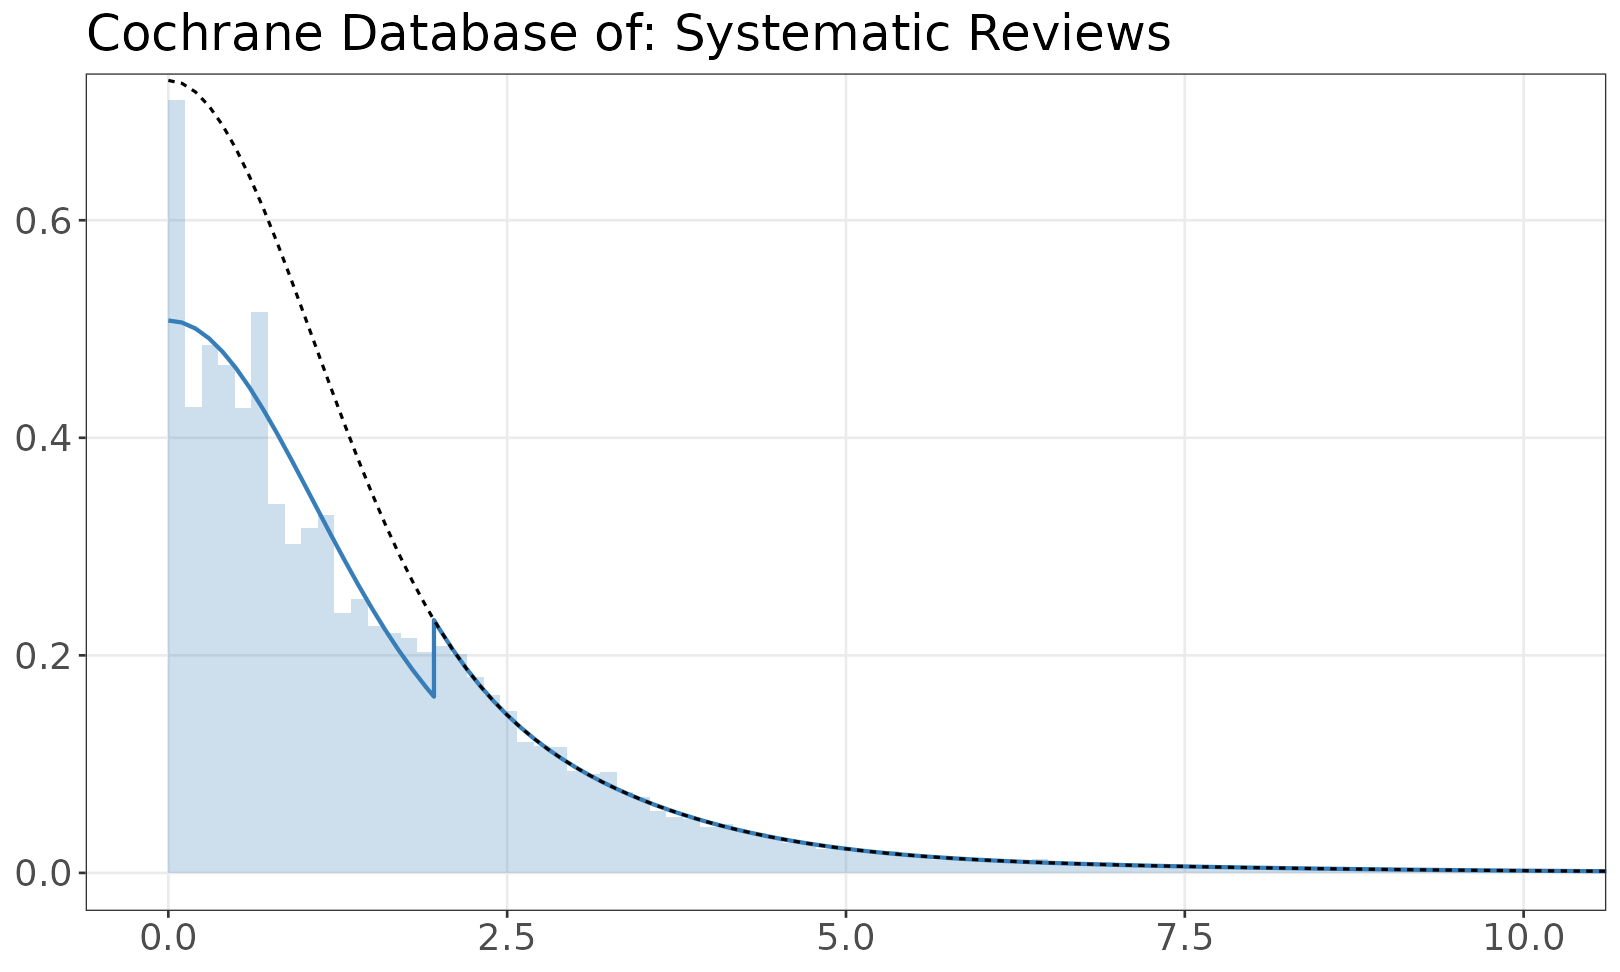
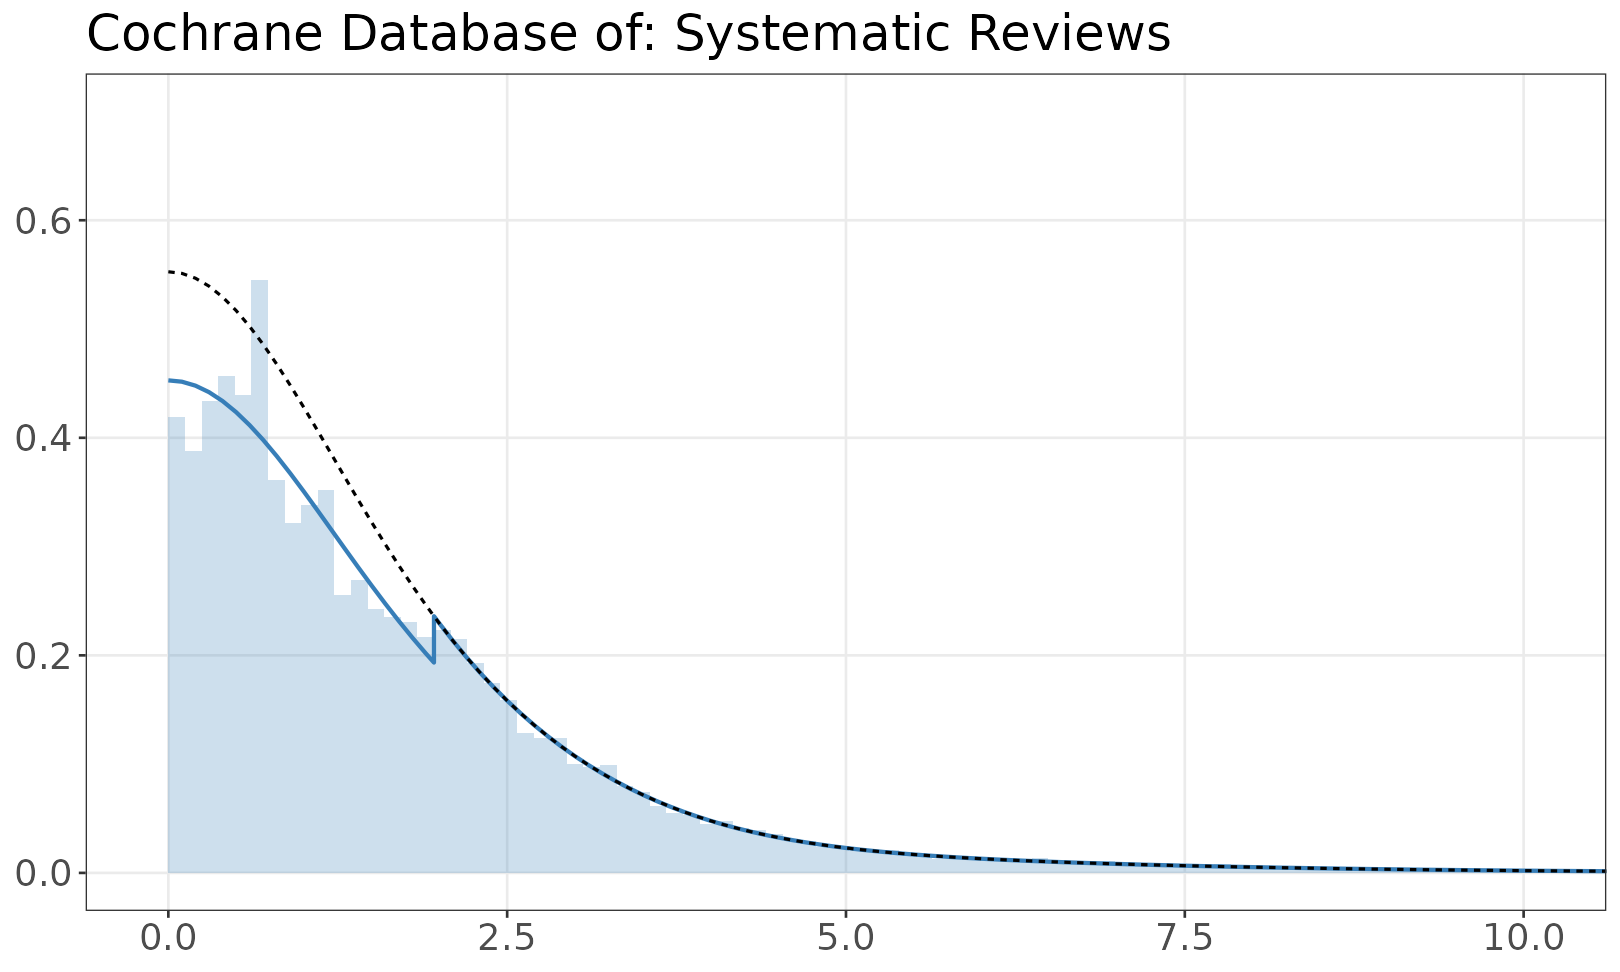
Update Cochrane (drop 00's) and clinicaltrials.gov (new extraction pipeline) results

Changed region(s): [[0.0926, 0.0926, 0.4938, 0.8642], [0.4938, 0.8642, 0.8025, 0.8951], [0.1543, 0.2778, 0.1852, 0.3395]]

diff --git a/paper/optimism.tex b/paper/optimism.tex
@@ -74,6 +74,7 @@
  % \endlocaldefs
 
 \DeclareMathOperator{\SNR}{\mathrm{SNR}}
+\DeclareMathOperator{\PoS}{\mathrm{PoS}}
 \DeclareMathOperator{\normal}{\mathrm{normal}}
 \DeclareMathOperator{\MVN}{\mathrm{MVN}}
 \DeclareMathOperator{\uniform}{\mathrm{uniform}}
@@ -104,7 +105,7 @@
 \usepackage[style=authoryear-comp,indexing=cite]{biblatex}
 \ExecuteBibliographyOptions{sortlocale=general,maxnames=12,maxcitenames=3,parentracker=true,sortcites=false,uniquename=false,dashed=false,hyperref=true}
 \uspunctuation
-\addbibresource{references.bib}
+\addbibresource{../doc/references.bib}
 \renewbibmacro{in:}{}
 
 
@@ -192,7 +193,7 @@ The second group consists of six corpora that can be thought of as representativ
 
 For comparison, we also include a third group which has the studies that were studies that were selected for replication in two notable large scale replication efforts: Open Science Collaboration replications in psychology \parencite{opensciencecollaborationEstimatingReproducibilityPsychological2015a} and SCORE replications in the social and behavioural sciences \parencite{tyner2026investigating}. We will discuss these sets of studies together with the second group because they have very similar properties. 
 
-\input{table1.tex}
+\input{tables/table1.tex}
 
 While we do some data processing of our own, all of data collection and the vast majority of data processing was already done by the creators of the datasets we reference. Most of them already include $z$-values or effect sizes and standard errors, but in some cases we make calculations ourselves (for example, from $p$-values or counts for binary data); calculation details are in Appendix \ref{app:datasets}. 
 
@@ -336,22 +337,22 @@ The right panel of Figure~\ref{fig:pos_gap} displays the probabilities of succes
 
 \begin{figure}
 \centering
-\includegraphics[width=1\textwidth]{fig/mixtures_plot_collection_groups.pdf}
+\includegraphics[width=1\textwidth]{figures/mixtures_plot_collection_groups.pdf}
 \caption{Histograms of absolute $z$-values across 14 non-replication corpora with fitted curves overlaid on top. The solid curves are densities, fitted using mixtures of half-normal distributions and conditioning on publication. Dashed curves are the unconditional ``corrected'' distributions, scaled to match the solid curve in region $|z| > 1.96$. Blue: curated sets; red: representative domain samples.}\label{fig:zmixtures}
 \end{figure}
 
 \begin{figure}
 \centering
-\includegraphics[width=1\textwidth]{fig/mixtures_plot_replication_projects.pdf}
+\includegraphics[width=1\textwidth]{figures/mixtures_plot_replication_projects.pdf}
 \caption{Histograms of absolute $z$-values for the SCORE and OSC original-study and replication-study distributions. Only the unconditional ``corrected'' mixture density is shown. Grey panels show original studies; yellow panels show replication studies.}\label{fig:replication_mixtures}
 \end{figure}
 
 
-\input{table2.tex}
+\input{tables/table2.tex}
 
 \begin{figure}
 \centering
-\includegraphics[width=.9\textwidth]{fig/pos_gap.pdf}
+\includegraphics[width=.9\textwidth]{figures/pos_gap.pdf}
 \vspace{-.2in}
 \caption{Left panel: ``survival curves'' of the probability of significance: $1 - (\mbox{CDF of PoS})$ for each of the 16 corpora. Right panel: conditional probabilities that the observed direction of the effect matches the true direction (top set of curves) and the conditional probability of ``successful'' replication (bottom set). Colors distinguish curated sets, representative domain samples, and replication efforts.}\label{fig:pos_gap}
 \end{figure}
@@ -490,20 +491,20 @@ If $z_\text{repl}$ is the $z$-value of an exact replication study, then the cond
 
 \begin{figure}[h]
 \centering
-\includegraphics[width=16.5cm]{fig/gap_plot_all.pdf}
+\includegraphics[width=16.5cm]{figures/gap_plot_all.pdf}
 \caption{Relationship between absolute $z$-values and the probability that the direction of the observed effect matches the true direction (blue curves) and the probability of ``successful replication'' (red curves). The vertical line is $\overline{\mathrm{PoS}}$. }
 \label{fig:gap_plot_all}
 \end{figure}
 
 \begin{figure}[h]
     \centering
-    \includegraphics[width=1\linewidth]{fig/mixtures_plot_subsets.pdf}
+    \includegraphics[width=1\linewidth]{figures/mixtures_plot_subsets.pdf}
     \vspace{-.2in}
     \caption{Subsets of interventional treatment studies from {\tt clinicaltrials.gov}, broken down by phase (top row) and from Cochrane database (bottom row), grouped by specialty (out of 19 included in the dataset): two with lowest $\overline{\mathrm{PoS}}$ on the left and two with the highest on the right. The peaks in the histograms at $|z| = 1.96, 2.58, 3.29$ are due to trials reporting (two-sided) $p<0.05, p<0.01, p<0.001$.}
     \label{fig:subsets}
 \end{figure}
 
-\input{table3.tex}
+\input{tables/table3.tex}
 
 \clearpage
 \section{Datasets included in BEAR}\label{app:datasets}

diff --git a/paper/tables/table3.tex b/paper/tables/table3.tex
@@ -21,25 +21,25 @@ Askarov et al & 0.70 & 0.52 & 0.48 & 0.29 & 0.10 & 0.58\\
 Metapsy & 0.73 & 0.48 & 0.43 & 0.22 & 0.09 & 0.49\\
 Arel-Bundock et al & 0.64 & 0.47 & 0.40 & 0.20 & 0.07 & 0.48\\
 Costello and Fox & 0.74 & 0.42 & 0.39 & 0.24 & 0.09 & 0.59\\
-psymetadata & 0.66 & 0.36 & 0.33 & 0.21 & 0.08 & 0.62\\
-What Works Clearing. & 0.88 & 0.34 & 0.32 & 0.17 & 0.07 & 0.52\\
-Cochrane & 0.70 & 0.31 & 0.23 & 0.10 & 0.05 & 0.40\\
+psymetadata & 0.66 & 0.36 & 0.32 & 0.20 & 0.08 & 0.61\\
+What Works Clearing. & 0.88 & 0.34 & 0.32 & 0.17 & 0.07 & 0.51\\
+Cochrane & 0.82 & 0.33 & 0.28 & 0.12 & 0.05 & 0.38\\
 \addlinespace
 \cmidrule(lr){1-7}
 \multicolumn{7}{l}{\emph{Representative domain samples}}\\
 \cmidrule(lr){1-7}
-Chavalarias et al & 0.15 & 0.87 & 0.52 & 0.33 & 0.13 & 0.60\\
-SCORE, all claims & 0.12 & 0.87 & 0.47 & 0.27 & 0.10 & 0.55\\
-Lang & 0.24 & 0.58 & 0.42 & 0.22 & 0.08 & 0.50\\
+Chavalarias et al & 0.15 & 0.87 & 0.52 & 0.32 & 0.13 & 0.60\\
+SCORE, all claims & 0.12 & 0.87 & 0.47 & 0.27 & 0.10 & 0.54\\
+Lang & 0.24 & 0.58 & 0.42 & 0.23 & 0.08 & 0.51\\
 Szucs and Ioannidis & 0.35 & 0.62 & 0.35 & 0.14 & 0.06 & 0.38\\
-clinicaltrials.gov + EU CTR & 0.50 & 0.51 & 0.35 & 0.22 & 0.06 & 0.60\\
+clinicaltrials.gov + EU CTR & 0.56 & 0.44 & 0.33 & 0.20 & 0.07 & 0.59\\
 Barnett and Wren & 0.08 & 0.84 & 0.30 & 0.11 & 0.04 & 0.35\\
 \addlinespace
 \cmidrule(lr){1-7}
 \multicolumn{7}{l}{\emph{Replication efforts}}\\
 \cmidrule(lr){1-7}
-SCORE replications & 0.70 & 0.64 & 0.50 & 0.33 & 0.09 & 0.64\\
-OpenSciCollab replications & 1.05 & 0.35 & 0.36 & 0.22 & 0.08 & 0.60\\
+SCORE replications & 0.70 & 0.64 & 0.51 & 0.33 & 0.09 & 0.64\\
+OpenSciCollab replications & 1.05 & 0.35 & 0.36 & 0.23 & 0.08 & 0.60\\
 \bottomrule
 \end{tabular}
 \caption{Summary of probability-of-significance results for the 16 corpora used in the paper. Rows are grouped into curated sets, representative domain samples, and replication projects.}

diff --git a/paper/tables/table2.tex b/paper/tables/table2.tex
@@ -21,14 +21,14 @@ Corpus & \multicolumn{1}{c}{\scriptsize $\hat\omega$}
 \cmidrule(lr){1-10}
 \multicolumn{10}{l}{\emph{Curated sets}}\\
 \cmidrule(lr){1-10}
-Nuijten et al & 0.85 & 0.53 & 0.48 & 0.47 & 0.41 & 0.74 & 0.88 & 0.96 & 0.99\\
+Nuijten et al & 0.85 & 0.53 & 0.48 & 0.47 & 0.41 & 0.75 & 0.88 & 0.96 & 0.99\\
 Askarov et al & 0.70 & 0.52 & 0.48 & 0.46 & 0.40 & 0.75 & 0.88 & 0.96 & 0.99\\
-Metapsy & 0.73 & 0.48 & 0.43 & 0.41 & 0.40 & 0.70 & 0.86 & 0.96 & 0.99\\
+Metapsy & 0.73 & 0.48 & 0.43 & 0.41 & 0.40 & 0.70 & 0.87 & 0.96 & 0.99\\
 Arel-Bundock et al & 0.64 & 0.47 & 0.40 & 0.38 & 0.36 & 0.68 & 0.85 & 0.96 & 0.99\\
 Costello and Fox & 0.74 & 0.42 & 0.39 & 0.37 & 0.35 & 0.74 & 0.79 & 0.89 & 0.98\\
-psymetadata & 0.66 & 0.36 & 0.33 & 0.31 & 0.30 & 0.74 & 0.72 & 0.81 & 0.96\\
+psymetadata & 0.66 & 0.36 & 0.32 & 0.30 & 0.30 & 0.74 & 0.72 & 0.81 & 0.96\\
 What Works Clearing. & 0.88 & 0.34 & 0.32 & 0.30 & 0.31 & 0.69 & 0.75 & 0.87 & 0.97\\
-Cochrane & 0.70 & 0.31 & 0.23 & 0.21 & 0.27 & 0.60 & 0.69 & 0.82 & 0.94\\
+Cochrane & 0.82 & 0.33 & 0.28 & 0.26 & 0.30 & 0.60 & 0.77 & 0.90 & 0.97\\
 \addlinespace
 \cmidrule(lr){1-10}
 \multicolumn{10}{l}{\emph{Representative domain samples}}\\
@@ -36,15 +36,15 @@ Cochrane & 0.70 & 0.31 & 0.23 & 0.21 & 0.27 & 0.60 & 0.69 & 0.82 & 0.94\\
 Chavalarias et al & 0.15 & 0.87 & 0.52 & 0.50 & 0.44 & 0.76 & 0.89 & 0.97 & 1.00\\
 SCORE, all claims & 0.12 & 0.87 & 0.47 & 0.45 & 0.41 & 0.73 & 0.88 & 0.96 & 0.99\\
 Lang & 0.24 & 0.58 & 0.42 & 0.41 & 0.38 & 0.70 & 0.86 & 0.96 & 0.99\\
-Szucs and Ioannidis & 0.35 & 0.62 & 0.35 & 0.34 & 0.36 & 0.62 & 0.84 & 0.96 & 0.99\\
-clinicaltrials.gov + EU CTR & 0.50 & 0.51 & 0.35 & 0.33 & 0.30 & 0.74 & 0.76 & 0.87 & 0.97\\
+Szucs and Ioannidis & 0.35 & 0.62 & 0.35 & 0.33 & 0.36 & 0.62 & 0.84 & 0.96 & 0.99\\
+clinicaltrials.gov + EU CTR & 0.56 & 0.44 & 0.33 & 0.32 & 0.30 & 0.73 & 0.74 & 0.85 & 0.97\\
 Barnett and Wren & 0.08 & 0.84 & 0.30 & 0.28 & 0.30 & 0.58 & 0.81 & 0.94 & 0.98\\
 \addlinespace
 \cmidrule(lr){1-10}
 \multicolumn{10}{l}{\emph{Replication efforts}}\\
 \cmidrule(lr){1-10}
-SCORE replications & 0.70 & 0.64 & 0.50 & 0.49 & 0.39 & 0.78 & 0.88 & 0.96 & 0.99\\
-OpenSciCollab replications & 1.05 & 0.35 & 0.36 & 0.34 & 0.31 & 0.73 & 0.80 & 0.91 & 0.98\\
+SCORE replications & 0.70 & 0.64 & 0.51 & 0.49 & 0.39 & 0.78 & 0.88 & 0.96 & 0.99\\
+OpenSciCollab replications & 1.05 & 0.35 & 0.36 & 0.35 & 0.31 & 0.74 & 0.80 & 0.91 & 0.98\\
 \bottomrule
 \end{tabular}
 \caption{Summary of signal-to-noise ratio modeling results for the 16 corpora used in the paper. Rows are grouped into curated sets, representative domain samples, and replication projects. Calculations of power, replication, and direction of effects use the distributions of $z$-values and signal-to-noise ratios by fitted mixture models without selection.}

diff --git a/paper/tables/table1.tex b/paper/tables/table1.tex
@@ -13,23 +13,23 @@ Metapsy \parencite{harrer2022metapsydata} & Meta-analytic psychotherapy trial da
 \textcite{costello2022decline} & Meta-analyses of decline effects in ecology and evolution & 12,927 & 6.8 & 42\%\\
 psymetadata \parencite{rodriguez2022psymetadata} & Curated psychology meta-analysis datasets & 721 & 11.8 & 36\%\\
 What Works Clearinghouse \parencite{wwc2025studyfindings} & Education intervention effect sizes & 1,408 & 8.6 & 34\%\\
-Cochrane Database of Systematic Reviews & Systematic reviews in health and medicine & 29,327 & 1.3 & 31\%\\
+Cochrane Database of Systematic Reviews & Systematic reviews in health and medicine & 27,513 & 1.3 & 33\%\\
 \addlinespace
 \midrule
 \multicolumn{5}{l}{\emph{Representative domain samples}}\\
 \midrule
-SCORE claims (Tyner et al 2026) & All claims from papers selected for SCORE (see below) & 159 & 12.2 & 87\%\\
+SCORE claims (Tyner et al 2026) & Claims from papers selected for SCORE & 159 & 12.2 & 87\%\\
 \textcite{chavalarias2016evolution} & Text-mined $p$-values from Medline and PubMed & 50,000 & 1.0 & 87\%\\
 \textcite{barnett2019examination} & Text-mined confidence intervals in health and medicine & 50,000 & 1.0 & 84\%\\
 \textcite{szucs2017empirical} & Text-mined $t$-tests in cognitive neuroscience & 2,261 & 7.5 & 62\%\\
 \textcite{lang2025credible} & Principal and abstract results from economics papers & 736 & 5.3 & 58\%\\
-clinicaltrials.gov + EU CTR & Clinical trial registries in the United States and Europe & 25,247 & 2.0 & 51\%\\
+clinicaltrials.gov + EU CTR & Clinical trial registries in the United States and Europe & 31,710 & 2.2 & 44\%\\
 \addlinespace
 \midrule
 \multicolumn{5}{l}{\emph{Replication efforts}}\\
 \midrule
-SCORE replications (Tyner et al 2026) & Replications in social and behavioural science & 163 & 1.6 & 64\%\\
-\textcite{opensciencecollaborationEstimatingReproducibilityPsychological2015a} & Replications in psychology & 97 & 1.0 & 35\%\\
+SCORE replications (Tyner et al 2026) & Matched replications of published claims & 163 & 1.6 & 64\%\\
+\textcite{opensciencecollaborationEstimatingReproducibilityPsychological2015a} & Replications of psychology experiments & 97 & 1.0 & 35\%\\
 \bottomrule
 \end{tabular}
 \caption{Datasets included in the paper, grouped into curated sets, representative domain samples, and replication projects. Study units are source-specific studies, trials, papers, or claims. $\bar{k}$ is the mean number of observations per study unit, and ``\% signif.'' is the percentage of absolute $z$-values exceeding 1.96. Barnett and Wren and Chavalarias are represented by 50,000-row BEAR subsamples; after the table filters their processed source files contain 416,027 and 1,887,178 study units, respectively.}

diff --git a/README.md b/README.md
@@ -35,12 +35,12 @@ Here is a short summary of what’s included in BEAR:
 
 | Dataset | Domain | Values | Meta-analyses | Studies | Values/study | Significant |
 |:---|:---|---:|---:|---:|---:|---:|
-| Cochrane\* | medicine & health | 38,058 | 5,871 | 29,327 | 1.3 | 31.1% |
+| Cochrane\* | medicine & health | 35,687 | 5,780 | 27,513 | 1.3 | 33.1% |
 | EUDRA | clinical trials | 8,650 | \- | 8,650 | 1.0 | 41.4% |
 | Metapsy | psychotherapy | 4,395 | 20 | 1,494 | 2.9 | 48.4% |
 | Nuijten et al | intelligence | 2,439 | \- | 1,913 | 1.3 | 52.9% |
 | What Works Clearing. | education | 12,045 | \- | 1,408 | 8.6 | 33.4% |
-| clinicaltrials.gov | clinical trials | 41,367 | \- | 16,597 | 2.5 | 48.4% |
+| clinicaltrials.gov | clinical trials | 60,470 | \- | 23,060 | 2.6 | 40.6% |
 | psymetadata | psychology | 8,514 | \- | 721 | 11.8 | 35.8% |
 
 ### Metascience datasets
@@ -63,7 +63,7 @@ Here is a short summary of what’s included in BEAR:
 | Dataset | Domain | Values | Meta-analyses | Studies | Values/study | Significant |
 |:---|:---|---:|---:|---:|---:|---:|
 | Many Labs 2 | psychology | 1,592 | 28 | 128 | 12.4 | 41.4% |
-| OpenSciCollab | psychology | 97 | \- | 97 | 1.0 | 35.1% |
+| OpenSciCollab replications | psychology | 97 | \- | 97 | 1.0 | 35.1% |
 | SCORE replications | social & behavioural sciences | 267 | \- | 163 | 1.6 | 64.4% |
 
 ### PubMed/Medline scraped data
@@ -90,8 +90,8 @@ additional columns that store values from original studies.
 
 | Category     | Datasets | Studies | Meta-analyses |  Values | Significant |
 |:-------------|---------:|--------:|--------------:|--------:|------------:|
-| curated      |        8 |  30,860 |               | 109,207 |       46.2% |
-| meta         |        9 |  59,408 |         7,768 | 202,635 |       42.4% |
+| curated      |        8 |  37,323 |               | 128,310 |       42.9% |
+| meta         |        9 |  57,594 |         7,677 | 200,264 |       42.9% |
 | replications |        3 |     388 |            28 |   1,956 |       44.2% |
 | scrape       |        4 | 155,322 |               | 165,653 |       69.0% |
 
@@ -151,34 +151,34 @@ significance, replication, correct sign) in `workflow/calculate_psr.R`
 
 # Results of mixture modelling
 
-| dataset              | omega |  PoS | PoS_80 | replication | sign |
-|:---------------------|------:|-----:|-------:|------------:|-----:|
-| Sladekova et al      |  0.82 | 0.54 |   0.40 |        0.53 | 0.86 |
-| Nuijten et al        |  0.85 | 0.48 |   0.29 |        0.47 | 0.88 |
-| Askarov et al        |  0.70 | 0.48 |   0.29 |        0.46 | 0.88 |
-| SCORE, all claims    |  0.12 | 0.47 |   0.27 |        0.45 | 0.88 |
-| Metapsy              |  0.73 | 0.43 |   0.22 |        0.41 | 0.86 |
-| Lang                 |  0.24 | 0.43 |   0.23 |        0.41 | 0.86 |
-| Arel-Bundock et al   |  0.64 | 0.40 |   0.20 |        0.38 | 0.85 |
-| Costello and Fox     |  0.74 | 0.39 |   0.24 |        0.38 | 0.79 |
-| Yang et al           |  0.73 | 0.37 |   0.22 |        0.36 | 0.78 |
-| Szucs and Ioannidis  |  0.35 | 0.35 |   0.14 |        0.33 | 0.84 |
-| ctgov / EU CTR       |  0.50 | 0.35 |   0.21 |        0.33 | 0.76 |
-| psymetadata          |  0.66 | 0.32 |   0.20 |        0.30 | 0.72 |
-| Brodeur et al        |  0.67 | 0.32 |   0.14 |        0.30 | 0.82 |
-| What Works Clearing. |  0.88 | 0.32 |   0.17 |        0.30 | 0.75 |
-| Cochrane             |  0.70 | 0.23 |   0.10 |        0.21 | 0.69 |
-| Bartos et al         |  0.81 | 0.23 |   0.08 |        0.20 | 0.74 |
-| SCORE replications   |  0.70 | 0.50 |   0.33 |        0.49 | 0.88 |
-| SCORE original       |  0.04 | 0.48 |   0.28 |        0.46 | 0.88 |
-| Many Labs 2          |  0.83 | 0.37 |   0.29 |        0.35 | 0.71 |
-| OpenSciCollab        |  1.05 | 0.36 |   0.22 |        0.34 | 0.80 |
-| OSC original         |  0.03 | 0.30 |   0.09 |        0.27 | 0.82 |
-| Many Labs original   |  0.06 | 0.24 |   0.13 |        0.22 | 0.73 |
-| Chavalarias et al    |  0.15 | 0.52 |   0.33 |        0.50 | 0.89 |
-| Head et al           |  0.24 | 0.46 |   0.26 |        0.44 | 0.87 |
-| Jager and Leek       |  0.18 | 0.45 |   0.25 |        0.43 | 0.87 |
-| Barnett and Wren     |  0.08 | 0.30 |   0.11 |        0.28 | 0.81 |
+| dataset                     | omega |  PoS | PoS_80 | replication | sign |
+|:----------------------------|------:|-----:|-------:|------------:|-----:|
+| Sladekova et al             |  0.82 | 0.54 |   0.40 |        0.52 | 0.86 |
+| Nuijten et al               |  0.85 | 0.48 |   0.29 |        0.47 | 0.88 |
+| Askarov et al               |  0.70 | 0.48 |   0.29 |        0.46 | 0.88 |
+| SCORE, all claims           |  0.12 | 0.47 |   0.27 |        0.45 | 0.88 |
+| Metapsy                     |  0.73 | 0.43 |   0.22 |        0.41 | 0.87 |
+| Lang                        |  0.24 | 0.42 |   0.23 |        0.41 | 0.86 |
+| Arel-Bundock et al          |  0.64 | 0.40 |   0.20 |        0.38 | 0.85 |
+| Costello and Fox            |  0.74 | 0.39 |   0.24 |        0.37 | 0.79 |
+| Yang et al                  |  0.73 | 0.37 |   0.22 |        0.35 | 0.78 |
+| Szucs and Ioannidis         |  0.35 | 0.35 |   0.14 |        0.33 | 0.84 |
+| clinicaltrials.gov + EU CTR |  0.56 | 0.33 |   0.20 |        0.32 | 0.74 |
+| psymetadata                 |  0.66 | 0.32 |   0.20 |        0.30 | 0.72 |
+| What Works Clearing.        |  0.88 | 0.32 |   0.17 |        0.30 | 0.75 |
+| Brodeur et al               |  0.67 | 0.32 |   0.14 |        0.30 | 0.82 |
+| Cochrane                    |  0.82 | 0.28 |   0.12 |        0.26 | 0.77 |
+| Bartos et al                |  0.81 | 0.23 |   0.08 |        0.20 | 0.74 |
+| SCORE replications          |  0.70 | 0.51 |   0.33 |        0.49 | 0.88 |
+| SCORE original              |  0.04 | 0.48 |   0.28 |        0.46 | 0.88 |
+| Many Labs 2                 |  0.83 | 0.37 |   0.29 |        0.35 | 0.71 |
+| OpenSciCollab replications  |  1.05 | 0.36 |   0.23 |        0.35 | 0.80 |
+| OSC original                |  0.03 | 0.30 |   0.09 |        0.27 | 0.82 |
+| Many Labs original          |  0.06 | 0.24 |   0.13 |        0.22 | 0.73 |
+| Chavalarias et al           |  0.15 | 0.52 |   0.32 |        0.50 | 0.89 |
+| Head et al                  |  0.24 | 0.46 |   0.26 |        0.44 | 0.87 |
+| Jager and Leek              |  0.18 | 0.45 |   0.25 |        0.44 | 0.87 |
+| Barnett and Wren            |  0.08 | 0.30 |   0.11 |        0.28 | 0.81 |
 
 `omega` is relative publication probability based on crossing of the
 \|z\|=1.96 threshold; `PoS` is probability of significance (assurance)

diff --git a/site/_site_metrics.md b/site/_site_metrics.md
@@ -1,5 +1,5 @@
 ::: {.bear-metrics}
-<div class="bear-metric"><div class="bear-metric-value">12.4 mln</div><div class="bear-metric-label">data points</div></div>
-<div class="bear-metric"><div class="bear-metric-value">7,567</div><div class="bear-metric-label">meta-analyses</div></div>
+<div class="bear-metric"><div class="bear-metric-value">12.5 mln</div><div class="bear-metric-label">data points</div></div>
+<div class="bear-metric"><div class="bear-metric-value">7,476</div><div class="bear-metric-label">meta-analyses</div></div>
 <div class="bear-metric"><div class="bear-metric-value">24</div><div class="bear-metric-label">datasets</div></div>
 :::

diff --git a/AGENTS.md b/AGENTS.md
@@ -4,6 +4,9 @@ Read both files before making changes in `BEAR/`.
 ## Maintainer Notes
 - Assume scripts are run from the `BEAR` project root unless a local script says otherwise.
 - For new exploratory subfolders under `explore/`, include a minimal `README.md` and a `changelog.md`.
+- Keep `explore/README.md` up to date when starting new exploratory folders,
+  including the folder's purpose and whether it is BEAR-internal or a
+  metascience/secondary-output analysis.
 - When the user wants to compare exploratory approaches, keep prior versions and add a new versioned script instead of rewriting in place.
 - Put process-specific helper code under `process/`; reserve `R/` for reusable project-wide helpers.
 - When adding or materially changing a dataset, consult `doc/adding_new_datasets.md`

diff --git a/doc/dataset_construction_reference.md b/doc/dataset_construction_reference.md
@@ -18,7 +18,7 @@ data were extracted before BEAR processing, and how extraction was validated.
 | Lang | `claim_or_focal_estimate_corpus` | Lang starts from empirical 2021 top-five economics papers plus the Brodeur/Cook/Heyes 2015 and 2018 leading-journal universe, then restricts to credibility-revolution causal designs and emphasized estimates. | Assistants re-read abstracts and result descriptions and kept author-emphasized estimates: abstracts, principal results, preferred specifications, or estimates used in magnitude calculations. Robustness and heterogeneity estimates were excluded unless central. BEAR uses the full `cr_append.dta` table and not the one-null-per-paper vector because the latter lacks identifiers. | `manual_article_extraction` | `source_manual_review` |
 | Chavalarias | `article_statistic_corpus` | Source is a text-mined p-value database from MEDLINE abstracts and PubMed Central full texts. | The source extracted p-values using text mining. BEAR combines the two downloaded CSV files, keeps source as abstract/full text indicator, normalizes p operators, and derives unsigned z-values from p-values. | `text_mined` | `not_documented_here` |
 | clinicaltrialsgov | `registry_database` | Source is AACT flat-file ClinicalTrials.gov records with posted results; BEAR keeps completed studies and primary outcome rows. | BEAR joins protocol/results tables, extracts effect estimates, confidence intervals, p-values, phase/enrollment/design metadata, and derives z-values through the shared trial p-value/CI workflow. | `registry_fields` | `BEAR_row_checks` |
-| Cochrane | `meta_corpus` | Source is CDSR intervention reviews available through the `cochrane` package snapshot. BEAR filters heavily to the coded primary outcome and comparison, efficacy outcomes, continuous/dichotomous outcomes, supported measures, and nonzero subject counts. | BEAR downloads RM5 review files, reads review study and meta-analysis data, cleans study years, classifies outcome groups and likely RCT-only reviews, and recalculates continuous and dichotomous effect sizes. | `review_database_fields` | `BEAR_row_checks` |
+| Cochrane | `meta_corpus` | Source is CDSR intervention reviews available through the `cochrane` package snapshot. BEAR filters heavily to the coded primary outcome and comparison, efficacy outcomes, continuous/dichotomous outcomes, supported measures, nonzero subject counts, and binary rows that are not zero/zero or all/all event rows. | BEAR downloads RM5 review files, reads review study and meta-analysis data, cleans study years, classifies outcome groups and likely RCT-only reviews, and recalculates continuous and dichotomous effect sizes. The processed source file retains zero/zero and all/all binary rows, while the main BEAR analysis dataset excludes them. | `review_database_fields` | `BEAR_row_checks` |
 | CostelloFox | `meta_corpus` | Source starts from Costello and Fox's 466 ecology meta-analytic datasets, found through Web of Science searches for ecology-related meta-analyses and screened by title/abstract/full text for ecological relevance and availability of effect sizes and sampling variances. | Yang 2024 processed the Costello/Fox data by eliminating missing/zero sampling variances, removing duplicated studies, and deriving z statistics from effect sizes and standard errors. BEAR imports the processed source CSV. | `processed_source_table` | `source_cleaning_rules` |
 | euctr | `registry_database` | Source is EU Clinical Trials Register records with results, downloaded through `ctrdata` into a local SQLite database. BEAR keeps primary endpoints. | BEAR extracts protocol and endpoint result fields, p-values, parameter estimates, confidence intervals, trial phase, sample size, and the `ctrdata` first-primary-endpoint fields, then derives z-values through the shared trial workflow. In the current processed data, completion date is missing for all retained BEAR rows (0 of 8,650 rows; 0.0%), so the year uses the EUCTR record entry date. | `registry_fields` | `BEAR_missingness_counts` |
 | Head | `article_statistic_corpus` | Source text-mined all open-access PubMed papers available up to the study date, with p-values extracted from abstracts and Results text. | Source extraction used regular expressions and article-section parsing. BEAR uses the available raw p-value file, drops rows lacking p-values, ambiguous DOI cases, papers with no Results sections, zero-author records, and supplement-like files, then joins field-of-research categories and PMIDs. | `text_mined` | `source_parser_checks` |